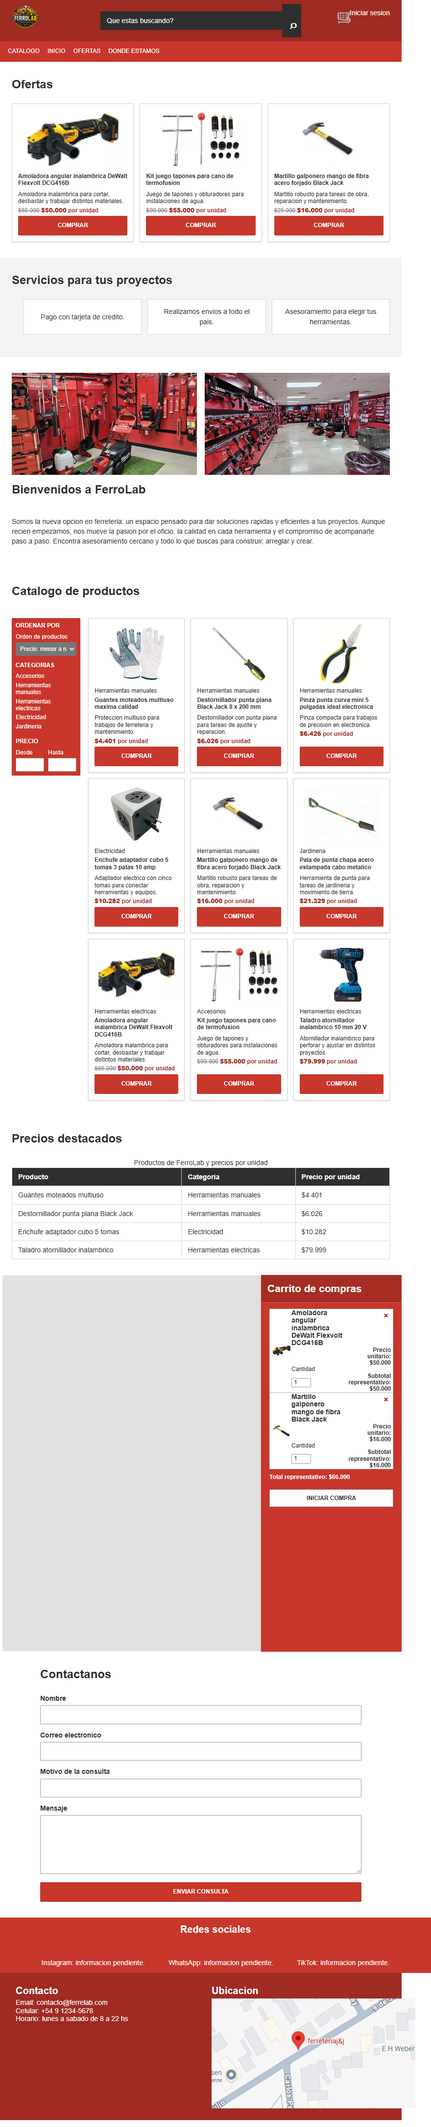
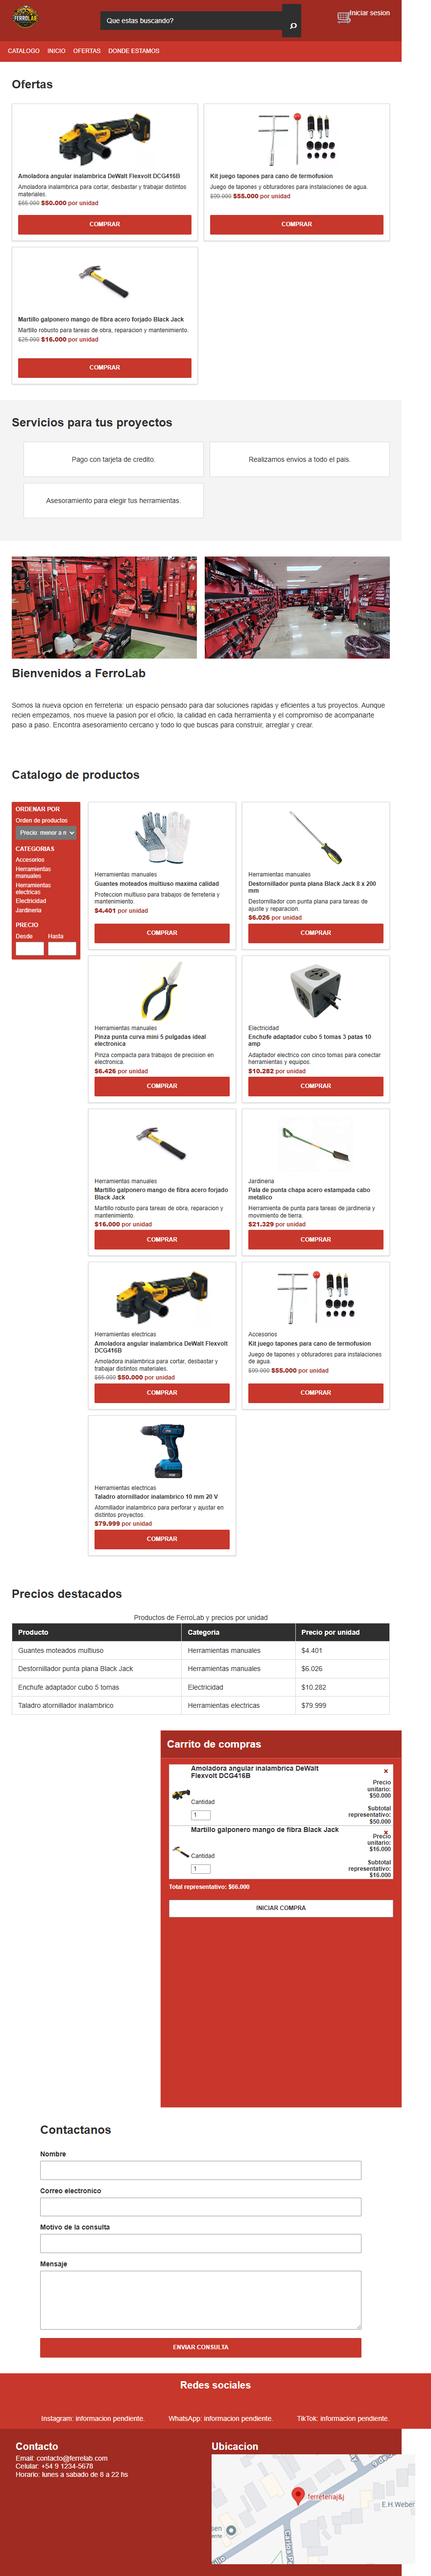
test: documentar TC-2 responsive - Momento 1

diff --git a/docs/04-testing/test-case-2.md b/docs/04-testing/test-case-2.md
@@ -1,61 +1,21 @@
 ## Momento 1 — Testing pre-merge (ramas `feature/`)
 
 **Prompt utilizado en Claude Code + Playwright MCP:**
-```
- Usá Playwright MCP para emular estos 3 dispositivos en http://127.0.0.1:3000/index.html:
-
-  1. iPhone 14 Pro (390x844)
-  2. Samsung Galaxy S23 (412x915)
-  3. iPad Air (820x1180)
-
-  Para cada uno:
-  - Navegá a la URL con ese viewport
-  - Verificá si hay overflow horizontal (comparando document.documentElement.scrollWidth
-    contra clientWidth)
-  - Sacá una captura de pantalla de la vista completa
-  - Guardala en docs/04-testing/capturas/tc-2/momento-1/ con nombre según dispositivo
-    (iphone14pro.png, galaxys23.png, ipadair.png)
-  - Contame si el menú de navegación, las cards de producto o cualquier otro elemento
-    se ve roto, cortado o mal posicionado
-
-  Al final dame un resumen en tabla: Dispositivo | Resolución | Overflow horizontal | Resultado | Observaciones
-
-  Called MCP, ran 1 shell command
-
-Voy a emular los 3 dispositivos con Playwright MCP, uno por uno, verificando overflow y capturando pantallas.
-
-  - Navegá a la URL con ese viewport
-  - Verificá si hay overflow horizontal (comparando document.documentElement.scrollWidth
-    contra clientWidth)
-  - Sacá una captura de pantalla de la vista completa
-  - Guardala en docs/04-testing/capturas/tc-2/momento-1/ con nombre según dispositivo
-    (iphone14pro.png, galaxys23.png, ipadair.png)
-  - Contame si el menú de navegación, las cards de producto o cualquier otro elemento
-    se ve roto, cortado o mal posicionado
-
-  Al final dame un resumen en tabla: Dispositivo | Resolución | Overflow horizontal | Resultado | Observaciones
-  ``` 
-
-**Nota:** Este test se corrió contra la rama feature/dev-frontend-css-add-styles.
-Al momento de esta ejecución, el Especialista en Responsive Design todavía no había
-subido su rama ni existe responsive.css — por lo tanto, los resultados abajo son
-una línea base PRE-responsive, no un fallo de la implementación de Frontend.
-Se debe repetir este test case una vez exista la rama de Responsive Design.
+[el mismo prompt de TC-2 que usamos]
 
 **Resultados:**
 
 | Dispositivo | Resolución | Overflow horizontal | Resultado | Observaciones |
 |-------------|------------|----------------------|-----------|----------------|
-| iPhone 14 Pro | 390×844 | Sí (scrollWidth 880px vs clientWidth 390px) | Baseline pre-responsive | Layout fijo ~880px tipo desktop comprimido. Nav y filtros de catálogo no colapsan a una columna. |
-| Samsung Galaxy S23 | 412×915 | Sí (leve, imagen del mapa ~416px fija) | Baseline pre-responsive (aceptable) | Layout de 3 columnas se ve razonable, sin roturas. Overflow menor por imagen de mapa sin max-width. |
-| iPad Air | 820×1180 | [completar] | [completar] | [completar] |
+| iPhone 14 Pro | 390×844 | No | OK | Header, nav, cards y filtros se apilan correctamente en 1 columna. Sin elementos cortados. |
+| Samsung Galaxy S23 | 412×915 | No | OK | Mismo comportamiento que iPhone, layout consistente y legible. |
+| iPad Air | 820×1180 | Sí (scrollWidth 880px vs clientWidth 805px, ~75px) | **Con problema** | Header, nav y grid de cards (2 columnas) correctos. El mapa de la sección "Ubicación" en el footer no tiene max-width, genera overflow en toda la página. |
 
-**Causa raíz identificada:** el sitio no tiene media queries/breakpoints para viewports
-móviles (~375-412px); el contenido mantiene un ancho mínimo cercano a 880px, probablemente
-por el grid de catálogo con sidebar de filtros + 3 columnas de producto.
+**Causa raíz:** la imagen del mapa (`#direccion`) dentro de la sección "Ubicación" del footer
+tiene un ancho fijo que excede el espacio de su columna en el breakpoint de tablet.
+No se detectaron problemas en menú, cards de producto ni panel de filtros del catálogo
+en ningún dispositivo.
 
 **Capturas:** `capturas/tc-2/momento-1/` (iphone14pro.png, galaxys23.png, ipadair.png)
 
-**Issues generados:** Ninguno en esta instancia — el hallazgo corresponde a trabajo pendiente
-del Especialista en Responsive Design (breakpoints y media queries), no a un defecto de
-Frontend/CSS. Se documenta como referencia para el testing post-implementación.
+**Issues generados:** [#43](https://github.com/angelgc9107-lgtm/ProyectoFerreteria_GRP05/issues/43) — overflow horizontal en iPad Air por mapa sin responsive
